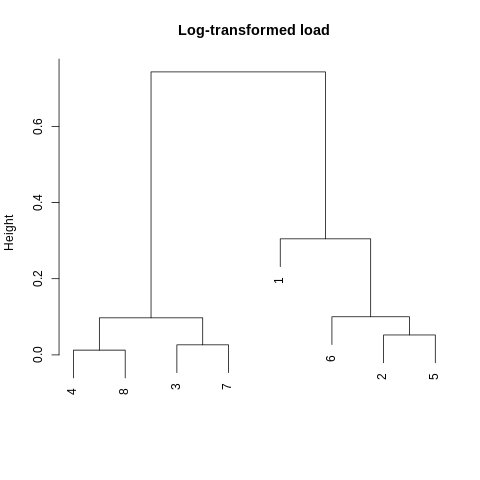
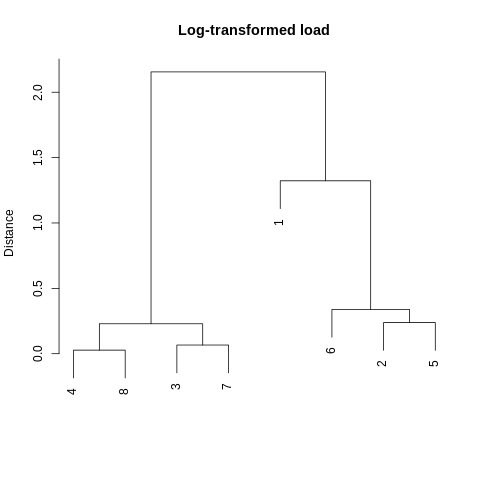
Euclidean distance used with Ward's method

diff --git a/README.md b/README.md
@@ -1,7 +1,7 @@
 fun-gi: hamPCR + Douglas-fir + needle fungi
 ================
 Kyle A. Gervers
-2023-01-31
+2023-02-01
 
 > This work is unpublished. All results shown are preliminary.
 
@@ -119,6 +119,8 @@ All packages were installed and managed with `conda`.
       - atropos=1.1.31
       - r-rmarkdown=2.20
       - r-markdown=1.4
+      - r-caret=6.0_93
+      - r-vegan=2.6_4
     prefix: /home/gerverska/projects/fun-gi/env
 
 ## Installation
@@ -294,8 +296,19 @@ Descriptions are ongoing.
 
 ### NOGA load regressed on NOGA dilution
 
-![dilution-load](06-analyze/dilution-load.png)
+![dilution-load](06-analyze/load.png)
 
 ### Base model residuals associated with each frameshift pair
 
 ![residuals](06-analyze/residuals.png)
+
+### Comparing DFSSMT samples with relative abundance and fungal load data
+
+#### Raw metrics
+
+![taxa](06-analyze/taxa.png)
+
+#### Hierarchical clustering
+
+<img src="06-analyze/ra-clust.png" style="width:45.0%" alt="ra-clust" /><img src="06-analyze/load-clust.png" style="width:45.0%"
+alt="load-clust" />
